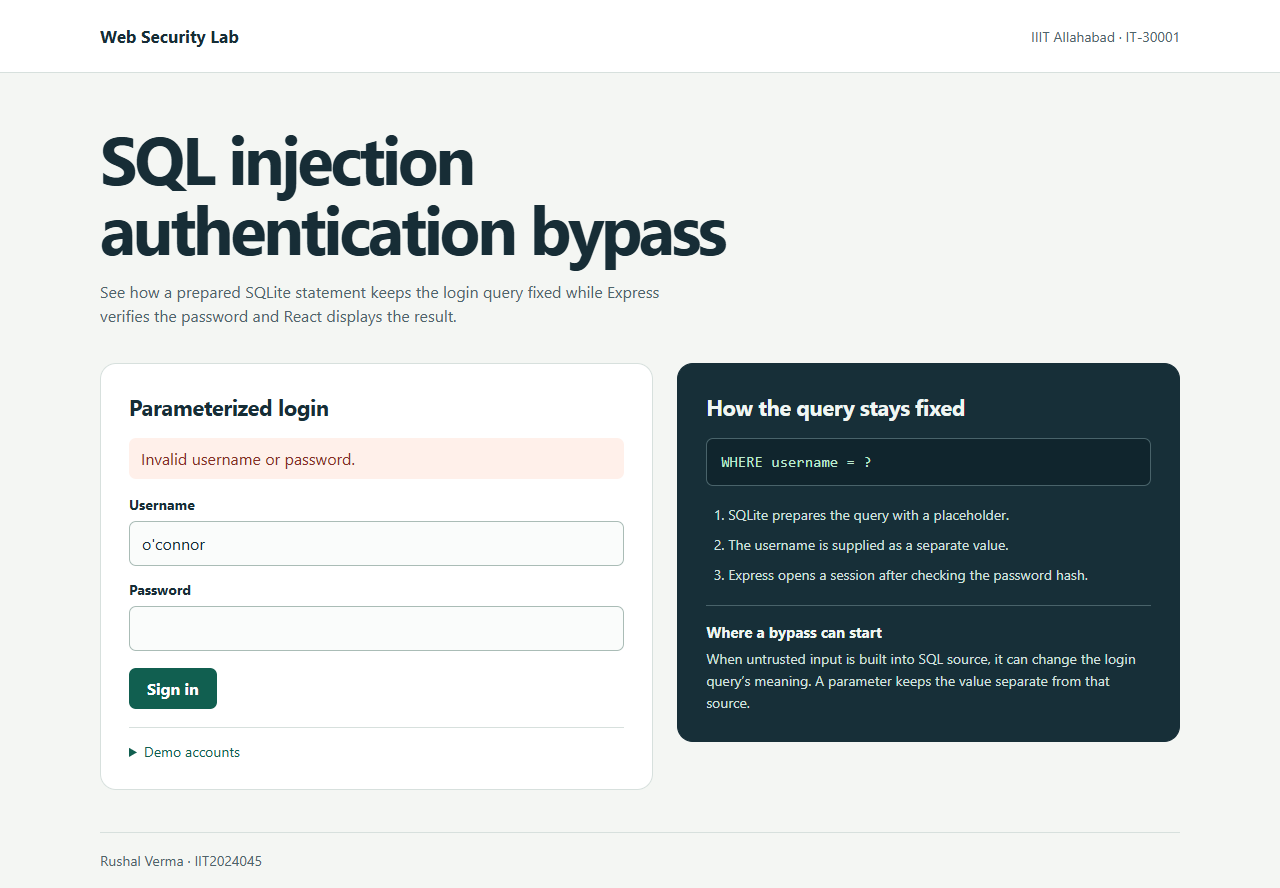
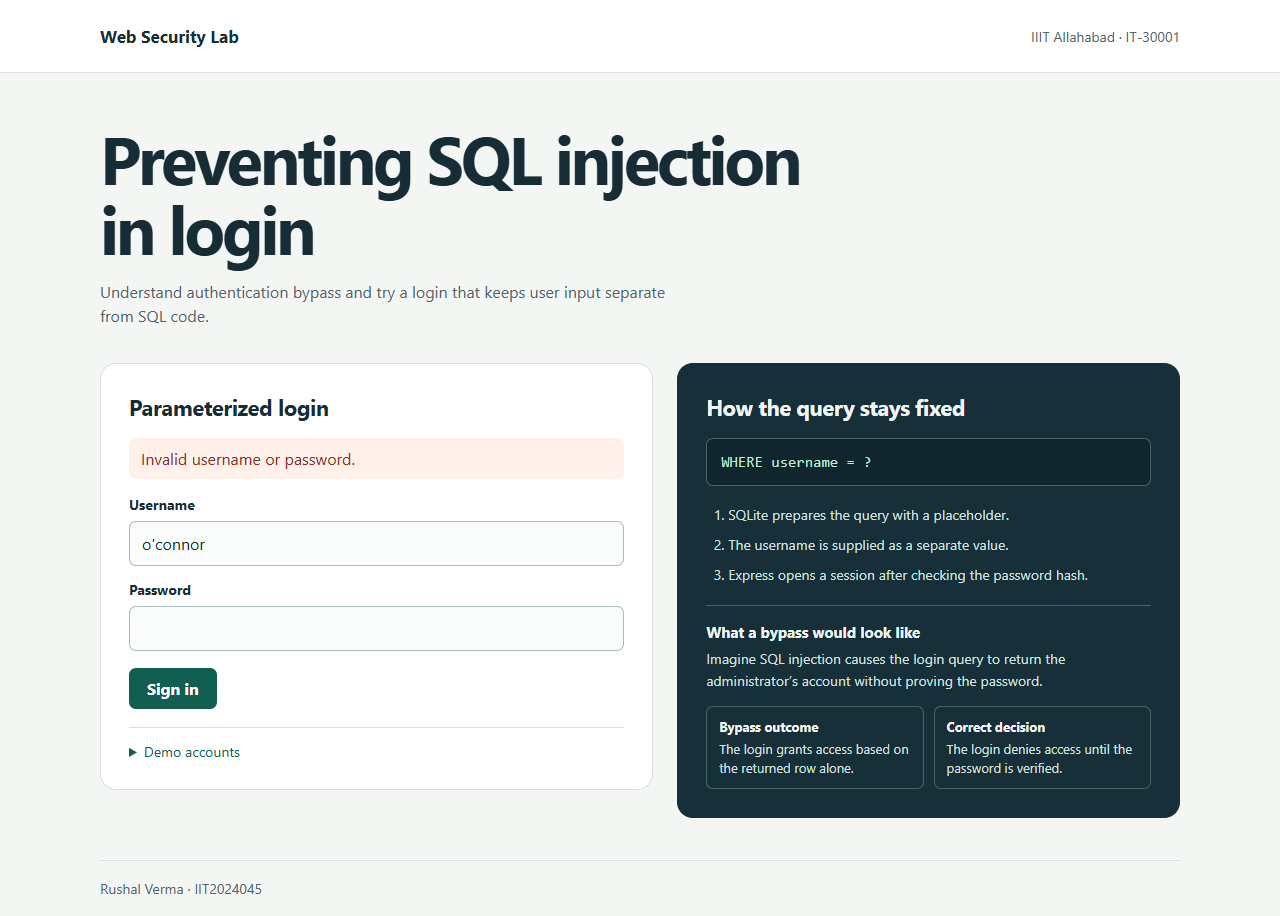
Clarify bypass concept and live SQL login evidence

diff --git a/IIT2024045/src/main.jsx b/IIT2024045/src/main.jsx
@@ -80,10 +80,10 @@ function App() {
 
       <main className="shell">
         <section className="intro" aria-labelledby="page-title">
-          <h1 id="page-title">SQL injection<br />authentication bypass</h1>
+          <h1 id="page-title">Preventing SQL injection<br />in login</h1>
           <p>
-            See how a prepared SQLite statement keeps the login query fixed
-            while Express verifies the password and React displays the result.
+            Understand authentication bypass and try a login that keeps user
+            input separate from SQL code.
           </p>
         </section>
 
@@ -133,8 +133,21 @@ function App() {
               <li>The username is supplied as a separate value.</li>
               <li>Express opens a session after checking the password hash.</li>
             </ol>
-            <h3>Where a bypass can start</h3>
-            <p>When untrusted input is built into SQL source, it can change the login query’s meaning. A parameter keeps the value separate from that source.</p>
+            <h3>What a bypass would look like</h3>
+            <p>
+              Imagine SQL injection causes the login query to return the
+              administrator’s account without proving the password.
+            </p>
+            <dl className="decisions">
+              <div>
+                <dt>Bypass outcome</dt>
+                <dd>The login grants access based on the returned row alone.</dd>
+              </div>
+              <div>
+                <dt>Correct decision</dt>
+                <dd>The login denies access until the password is verified.</dd>
+              </div>
+            </dl>
           </aside>
         </div>
       </main>

diff --git a/IIT2024045/src/styles.css b/IIT2024045/src/styles.css
@@ -73,6 +73,15 @@ code { font-family: "IBM Plex Mono", Consolas, monospace; font-size: 0.95em; }
 .explanation ol { display: grid; gap: 8px; margin: 18px 0 20px; padding-left: 22px; }
 .explanation li, .explanation p { color: #d1e0df; font-size: 14px; line-height: 1.55; }
 .explanation h3 { padding-top: 16px; margin-bottom: 6px; border-top: 1px solid #49636a; font-size: 15px; }
+.decisions {
+  display: grid;
+  grid-template-columns: repeat(auto-fit, minmax(145px, 1fr));
+  gap: 10px;
+  margin: 14px 0 0;
+}
+.decisions > div { padding: 11px 12px; border: 1px solid #49636a; border-radius: 7px; }
+.decisions dt { margin: 0; color: #f0f6f3; font-size: 13px; font-weight: 650; }
+.decisions dd { margin: 5px 0 0; color: #d1e0df; font-size: 13px; line-height: 1.45; }
 .footer { margin-top: 42px; border-top: 1px solid var(--line); padding-block: 18px; color: var(--muted); font-size: 14px; }
 
 @media (max-width: 690px) {

diff --git a/IIT2024045/index.html b/IIT2024045/index.html
@@ -4,7 +4,7 @@
     <meta charset="UTF-8" />
     <meta name="viewport" content="width=device-width, initial-scale=1.0" />
     <meta name="description" content="A local lesson on prepared statements and login verification." />
-    <title>SQL Authentication · Web Security Lab</title>
+    <title>SQL Login Mitigation · Web Security Lab</title>
   </head>
   <body>
     <div id="root"></div>

diff --git a/IIT2024045/docs/DEMO_SCRIPT.md b/IIT2024045/docs/DEMO_SCRIPT.md
@@ -1,17 +1,16 @@
 # Demo video script
 
-Rushal Verma · IIT2024045 · SQL injection authentication bypass
+Rushal Verma · IIT2024045 · Authentication bypass concept and live mitigation
 
 Start the app. Open the browser, `server/database.js`, and `server/app.js`. Begin signed out. The script takes about 2–3 minutes with the on-screen actions. [Run instructions](../README.md#run-locally)
 
 | Time | On screen | Say |
 | --- | --- | --- |
-| 0:00–0:25 | Show the login page and the name and roll number in the footer. | “Hi, I’m Rushal Verma, IIT2024045. My assigned variant is SQL injection authentication bypass. I’ll explain the vulnerability and show its mitigation using a React login page, an Express API, and SQLite.” |
-| 0:25–0:50 | Point to the explanation panel. | “A login is vulnerable when it puts user input directly into SQL source. The database can then interpret the input as part of the query. If the application trusts the resulting row as proof of identity, it can make an incorrect login decision.” |
-| 0:50–1:10 | Enter `o'connor` with a wrong password. Show the error. | “I’m signing in as the student account whose name includes an apostrophe. With the wrong password, the server rejects the login. No new session is created.” |
-| 1:10–1:45 | Show `db.prepare`, `findUser.get(username)`, and the password check in the user store. | “Here, the SQL is prepared using a question-mark placeholder. The lookup sends the username as a separate value. SQLite treats the apostrophe as part of the name. Node then checks the password against the salted hash stored for the account. The Express route creates a session only if that check succeeds.” |
-| 1:45–2:15 | Enter the same username with its correct demo password. Show the student dashboard, refresh, then sign out. | “With the correct password, the same username opens the student dashboard. Refreshing keeps the session. Signing out destroys the session and returns me to the login form.” |
-| 2:15–2:40 | Return to the query and session code. | “Parameterized queries keep the SQL structure fixed. Input validation, limited database privileges, and generic error messages are additional layers. This walkthrough verifies the mitigation using a legitimate value and two different password outcomes.” |
+| 0:00–0:20 | Show the page and your name and roll number in the footer. | “Hi, I’m Rushal Verma, IIT2024045. My topic is SQL injection authentication bypass. First I’ll explain what counts as a bypass, then I’ll show how this login prevents it.” |
+| 0:20–0:55 | Point to **What a bypass would look like** and **Bypass outcome**. | “An authentication bypass means getting signed-in access without proving valid credentials. In this hypothetical example, SQL injection changes the login query and it returns an administrator row. A vulnerable app grants access based on that result alone. The bypass is the unauthorized session.” |
+| 0:55–1:35 | Show `db.prepare` and `findUser.get(username)` in the user store, then point to the hash check. | “My app prepares the SQL with a question-mark placeholder and passes the username separately. SQLite uses it as data. The lookup identifies an account, and the app verifies the password before Express creates a session.” |
+| 1:35–2:05 | Sign in as `o'connor` with a wrong password. Show the error. Open `/api/account` on the same server in another tab and show its sign-in error. | “This is a normal failed login. The apostrophe is part of a real demo username. With the wrong password, I get a rejection and the protected account endpoint stays inaccessible.” |
+| 2:05–2:40 | Return to the login tab. Use the same username with its correct demo password, show the dashboard, then sign out. | “The correct password opens the session for the same user. That shows the protection keeps ordinary logins working. Parameter binding keeps the SQL fixed. Input validation, limited privileges, and generic errors provide additional layers.” |
 
-The wrong-password clip verifies login rejection. The apostrophe in the student's username is a legitimate data value. The recording covers the mitigation and a conceptual explanation of the vulnerability. [User store](../server/database.js) · [Express routes](../server/app.js)
+The bypass scene is conceptual. The live sequence checks that invalid credentials leave the protected endpoint inaccessible and valid credentials open it. Evidence of a working exploit remains outstanding. [User store](../server/database.js) · [Express routes](../server/app.js)
 

diff --git a/IIT2024045/README.md b/IIT2024045/README.md
@@ -4,7 +4,7 @@
 | --- | --- | --- | --- |
 | Rushal Verma | IIT2024045 | SQL injection | Authentication bypass |
 
-This local lab implements the mitigation for SQL injection in a login form. React sends the form to Express. SQLite looks up the account using a prepared statement, and Node.js checks the password hash before Express creates a session. The guide explains the original vulnerability conceptually.
+This local lab illustrates what an authentication bypass would look like and runs a login that demonstrates the mitigation. React sends the form to Express. SQLite looks up the account using a prepared statement, and Node.js checks the password hash before Express creates a session.
 
 ## Run locally
 
@@ -48,10 +48,12 @@ Input length and type checks help define valid requests. Least privilege limits 
 
 ## Demonstrate and verify
 
-1. Sign in as `o'connor` with a wrong password. The app displays **Invalid username or password**.
-2. Point to the prepared statement and the bound username in `server/database.js`.
-3. Use the same username with its correct demo password. The student dashboard opens. Refresh to check that the session still works.
-4. Sign out and refresh. The login form is visible again.
+1. Point to **What a bypass would look like**. This is a hypothetical outcome where an incorrect login decision opens a session without credential proof.
+2. Begin signed out. Sign in as `o'connor` with a wrong password. The app displays **Invalid username or password**. Opening `/api/account` while signed out returns HTTP 401.
+3. Point to the prepared statement and the bound username in `server/database.js`.
+4. Use the same username with its correct demo password. The student dashboard opens. Refresh to check that the session still works, then sign out.
+
+The failed login and valid login verify credential and session checks. The apostrophe belongs to a legitimate demo username. Evidence of a working exploit remains an open assignment item.
 
 Run `npm test` to verify the Express API and the session lifecycle. The app is scoped to the local classroom demonstration and uses an in-memory session store.
 

diff --git a/IIT2024045/evidence/README.md b/IIT2024045/evidence/README.md
@@ -5,5 +5,5 @@
 | [Wrong password rejected](01-wrong-password.png) | The student account receives a generic failure with an incorrect password. |
 | [Correct password accepted](02-student-dashboard.png) | The same username, including its apostrophe, reaches the protected dashboard with the correct password. |
 
-These screenshots were captured from the running Node.js and React module. [Recording script](../docs/DEMO_SCRIPT.md)
+These screenshots show the live login checks. The panel beside the form illustrates a hypothetical bypass outcome. [Recording script](../docs/DEMO_SCRIPT.md)
 
